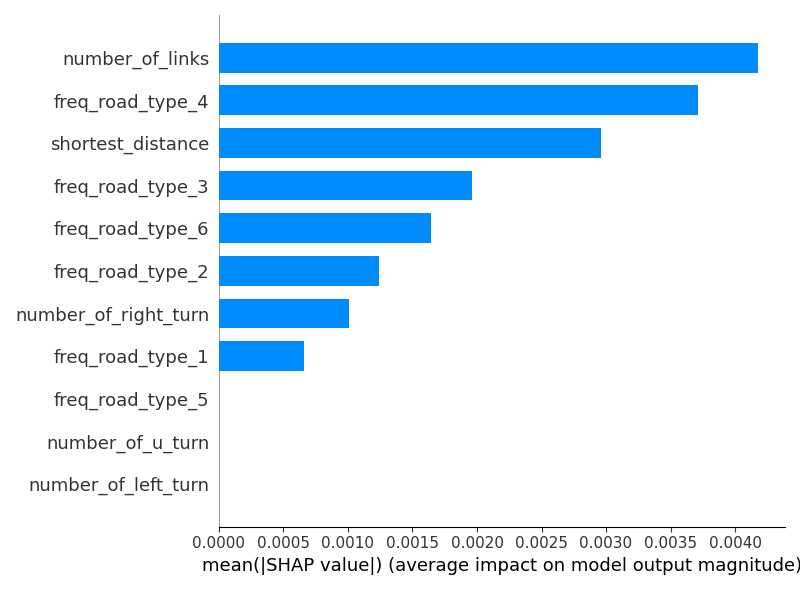
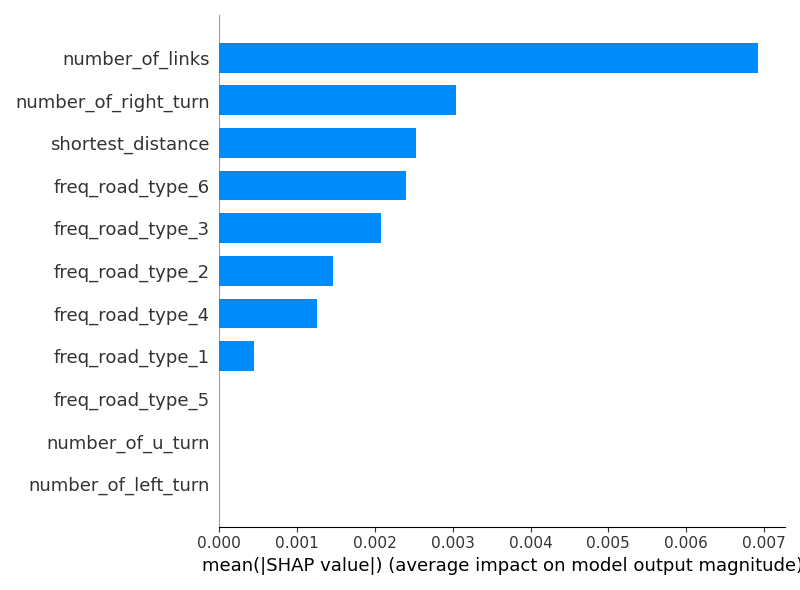
shap plot

diff --git a/src/reward_shap.py b/src/reward_shap.py
@@ -35,8 +35,8 @@ edge_p = "../data/edge.txt"
 network_p = "../data/transit.npy"
 path_feature_p = "../data/feature_od.npy"
 train_p = "../data/cross_validation/train_CV%d_size%d.csv" % (cv, size)
-test_p = "../data/cross_validation/test_CV%d.csv" % cv
-# test_p = "../data/cross_validation/train_CV%d_size%d.csv" % (cv, size)
+# test_p = "../data/cross_validation/test_CV%d.csv" % cv
+test_p = "../data/cross_validation/train_CV%d_size%d.csv" % (cv, size)
 model_p = "../trained_models/airl_CV%d_size%d.pt" % (cv, size)
 
 """initialize road environment"""
@@ -211,7 +211,7 @@ def create_shap_explainer(model, input_features):
     # Stack the input features along a new axis to create the background data
     input_features_array = np.array(input_features)
     # Create the background dataset
-    background_data = shap.sample(input_features_array, 10) 
+    background_data = shap.sample(input_features_array, 50) 
 
     explainer = shap.KernelExplainer(predict_fn, background_data)
     return explainer
@@ -347,7 +347,7 @@ feature_names_dict = {
 }
 
 selected_feature_indices = [76,77,78,79,80,81,82,83,84,85,86]
-analyze_shap_values(explainer, input_features[0:2],selected_feature_indices )
+analyze_shap_values(explainer, input_features[0:200],selected_feature_indices )
 
 
 
